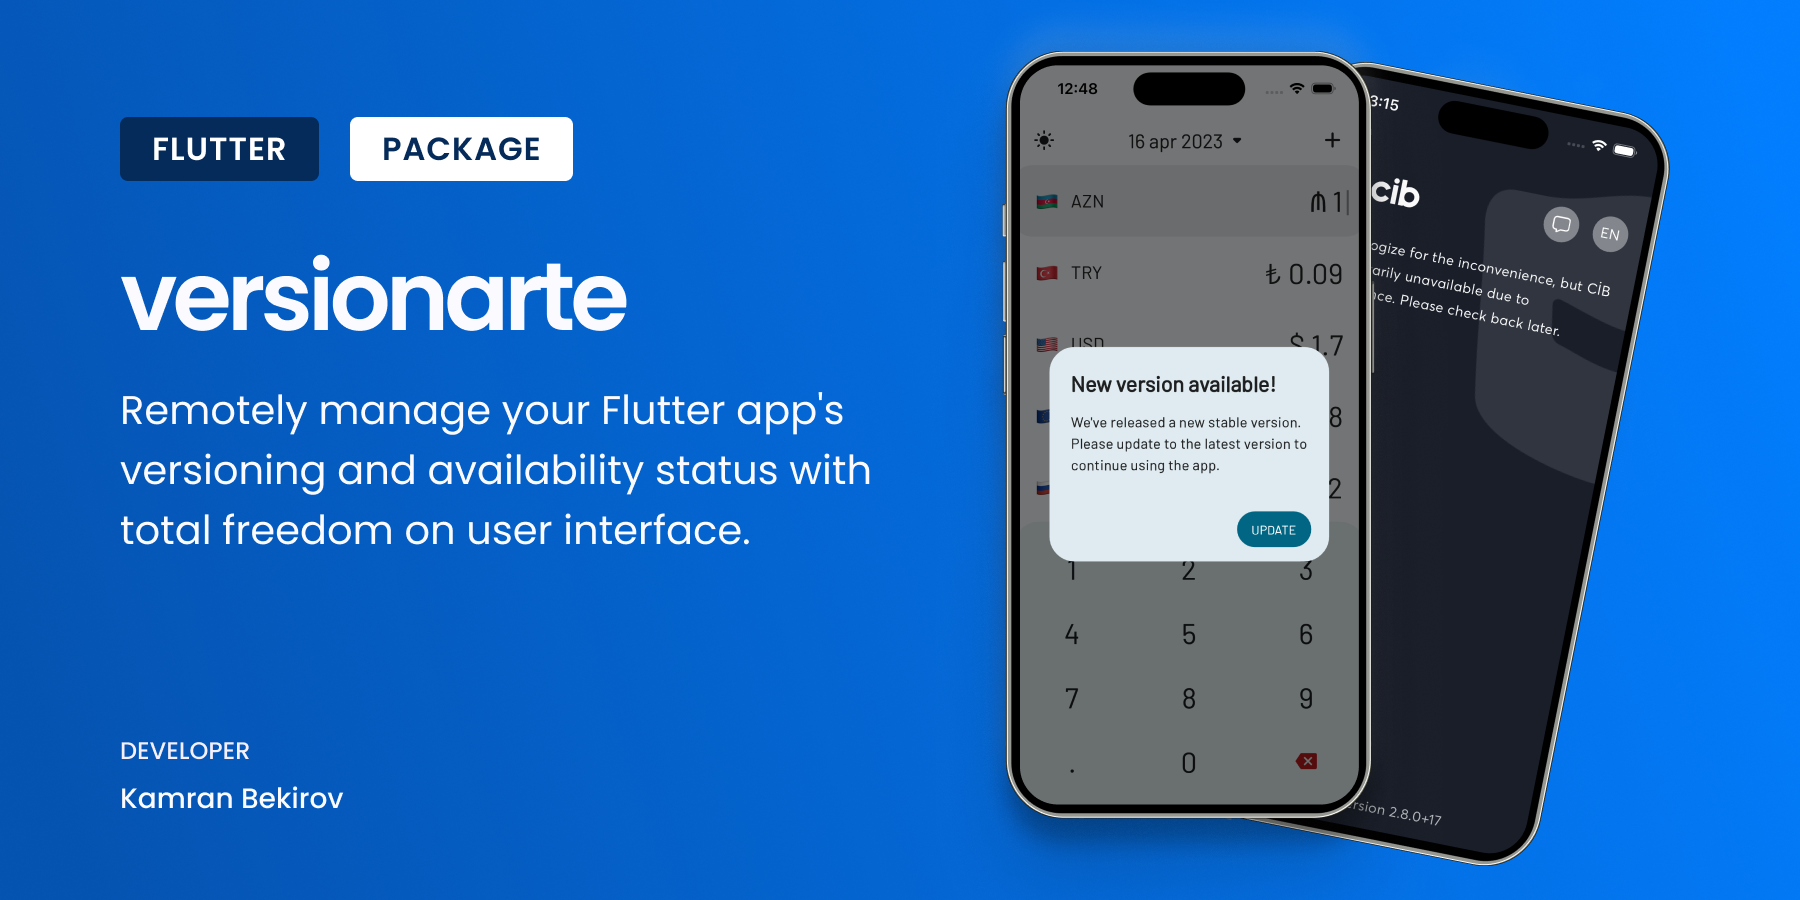
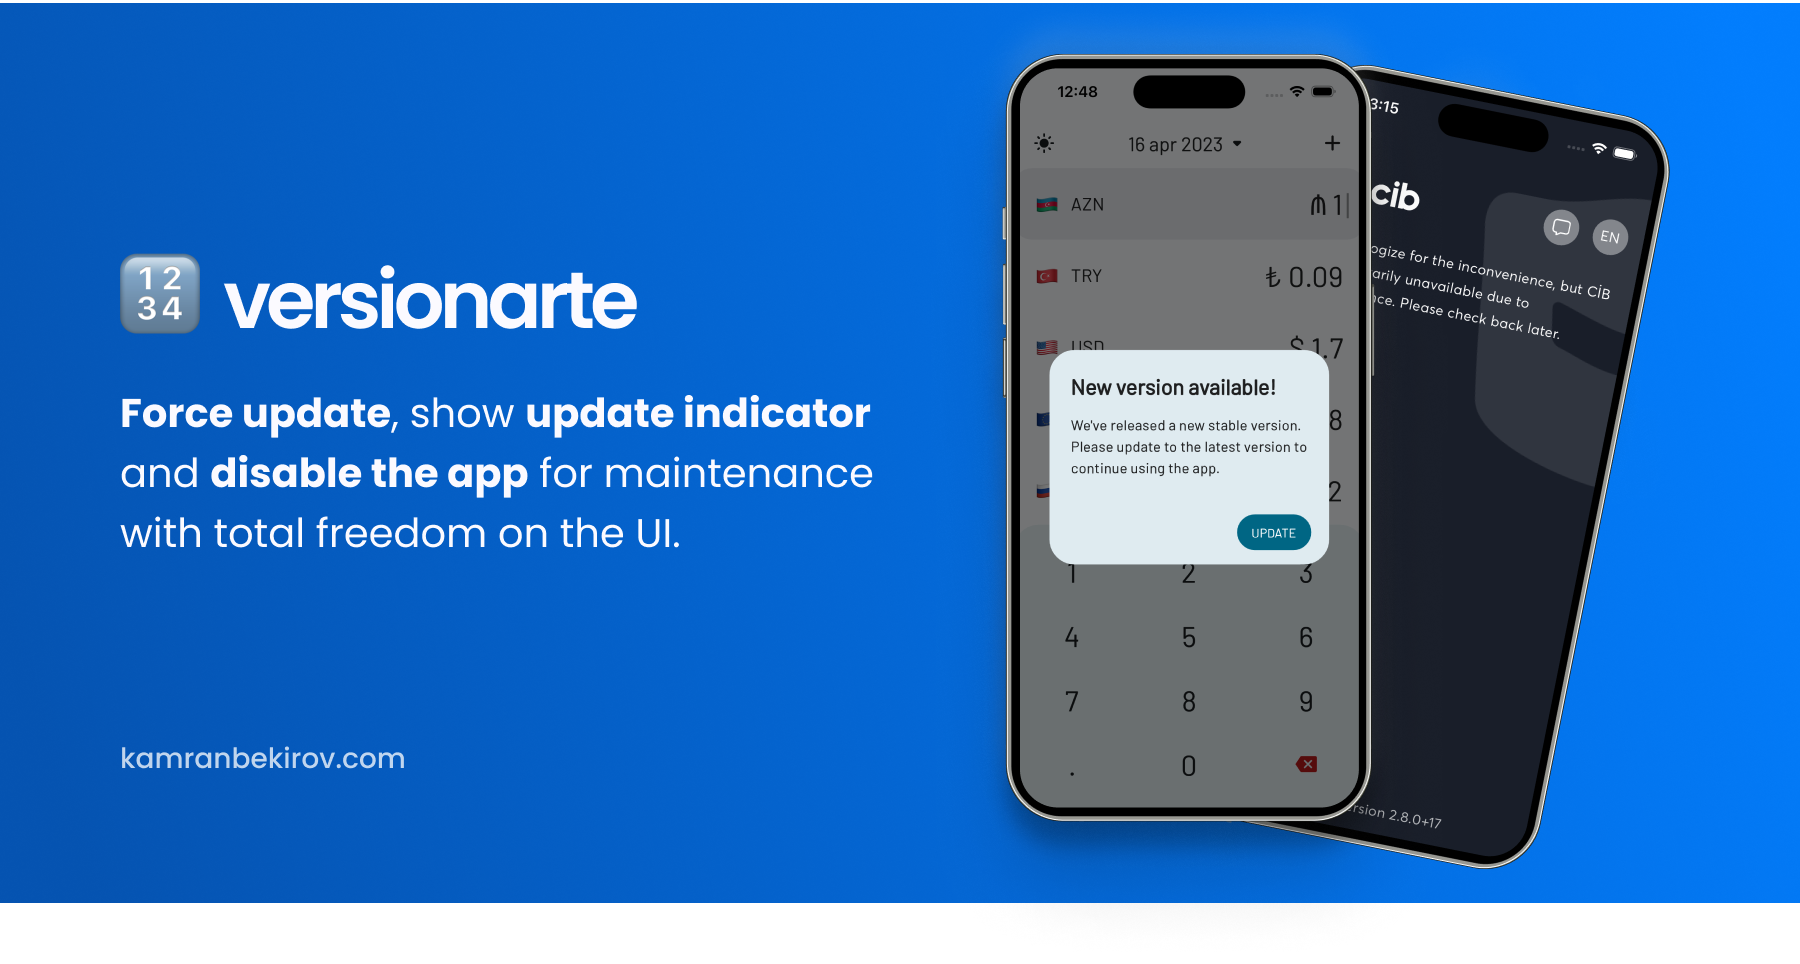
update docs and cover

diff --git a/README.md b/README.md
@@ -1,24 +1,21 @@
 # versionarte
 
-Remotely manage your Flutter app's versioning and availability, with a variety of helpful, and in some cases life-saving features with total freedom over the UI allowing you to customize the user experience to fit your app's branding and style.
+Force update, show update indicator and disable the app for maintenance with total freedom over the UI.
 
 <img src="https://raw.githubusercontent.com/kamranbekirovyz/versionarte/main/assets/cover.png" alt="cover_picture" />
 
 Features can be implemented with versionarte:
-- ✋ Force users to update to the latest version of your app before continuing
-- 💆🏻♂ Have separate minimum, latest versions and availability status for platforms
-- 🚧 Disable your app for maintenance with custom information text
-- 🆕 Inform users when an optional update is available
+- ✋ Force users to update to the latest version
+- 💆🏻♂ Have separate values for each platform
+- 🚧 Disable app for maintenance with custom informative text
+- 🆕 Inform users about an optional update availability
 - 🔗 Launch the App Store on iOS and Play Store on Android
 
-## 🏁 Getting started
+## 📡 Getting status and availability information
 
-How this works? Call `Versionarte.check` method by providing it a `VersionarteProvider` (an object responsible for fetching the versioning information from a remote service) which returns a `VersionarteResult` (an object containing app's versioning and availability information).
+Call `Versionarte.check` method by providing it a `VersionarteProvider` (an object responsible for fetching the versioning information from a remote service) to get a `VersionarteResult` (an object containing app's versioning and availability information).
 
 There are 2 built-in providers, [RemoteConfigVersionarteProvider](#1-using-firebase-remote-config) and [RestfulVersionarteProvider](#2-using-restful-api), which fetches the versioning information from Firebase Remote Config and RESTful API respectively. You can also create your own custom provider by extending the [VersionarteProvider](#3-using-custom-versionarteprovider) class.
-
-💡 No need to try-catch the `Versionarte.check` method, as it catches all the errors internally and if something goes wrong, an instance of `VersionarteResult` with status `VersionarteStatus.unknown` is still returned.  
-💡 Be sure to check the debug console to see insightful debug-only prints.
 
 ### 1. Using Firebase Remote Config
 
@@ -33,7 +30,7 @@ final result = await Versionarte.check(
 ```
 
 Optional parameters:
-- `keyName`: key name for the Firebase Remote Config to fetch. By default, it's set to "versionarte". Specify if you upload the [configuration JSON](#%EF%B8%8F-configuration-json) using a different key name.
+- `keyName`: key name for the Firebase Remote Config to fetch. By default, it's set to "versionarte". Specify if you upload the [configuration JSON](#-configuration-json) using a different key name.
 - `initializeInternally`: if your project already initializes and configures Firebase Remote Config, set this to `false`. By default, it's set to `true`.
 - `remoteConfigSettings`: settings for Firebase Remote Config if `initializeInternally` set to true. By default, `fetchTimeout` and `minimumFetchInterval` are set to `10 seconds`.
 
@@ -77,7 +74,7 @@ final result = await Versionarte.check(
 );
 ```
 
-## 🙌 Handle the result
+## 🎯 Handle the result
 
 Obtained `VersionarteResult` has 3 parameters:
 
@@ -92,19 +89,19 @@ Obtained `VersionarteResult` has 3 parameters:
 Then, based on `status` do the if-else checks:
 
 ```dart
-if (result.status == VersionarteResult.appInactive) {
+if (result.status == VersionarteResult.inactive) {
     final message = result.details.status.getMessageForLanguage('en');
     // TODO: Handle the case where the app is inactive
-} else if (result == VersionarteResult.mustUpdate) {
+} else if (result == VersionarteResult.forcedUpdate) {
     // TODO: Handle the case where an update is required
-} else if (result == VersionarteResult.shouldUpdate) {
+} else if (result == VersionarteResult.upToDate) {
     // TODO: Handle the case where an update is optional
 } 
 ```
 
 ## 🔗 Launching the stores
 
-To launch the App Store on iOS and Play Store on Android, use the `Versionarte.launchStore` method by providing it with `appStoreUrl` (String) for App Store and `androidPackageName` (String) for Play Store.
+To launch the App Store on iOS and Play Store on Android, use the `Versionarte.launchStore` method by providing it with `appStoreUrl` for App Store and `androidPackageName` for Play Store.
 
 ```dart
 Versionarte.launchStore(
@@ -114,7 +111,7 @@ Versionarte.launchStore(
 ```
 
 💡 `androidPackageName` is optional: if not provided corresponding value obtained from `package_info` will be used.
-💡 It's suggested to test launching store on a real device.
+💡 Launching store won't work on iOS simulator due to its limitations.
 
 See the <a href="https://github.com/kamranbekirovyz/versionarte/tree/main/example">example</a> directory for a complete sample app.
 
@@ -160,9 +157,9 @@ Each platform contains two objects:
     - `active`: A boolean that indicates whether the app is currently active or not.
     - `message`: A Map that contains the messages for different languages to be displayed to the user when app is inactive. The keys of the map represent the language codes (e.g., "en" for English, "es" for Spanish), and the values represent the message in that language.
 
-## 🐞 Bugs/Requests
+## 🐞 Faced issues?
 
-If you encounter any problems please open an issue. If you feel the library is missing a feature, please raise a ticket on GitHub and we'll look into it. Pull requests are welcome.
+If you encounter any problems or you feel the library is missing a feature, please <a href=https://github.com/kamranbekirovyz/versionarte/issues>raise a ticket on GitHub</a> and U'll look into it. 
 
 ## 📃 License
 
